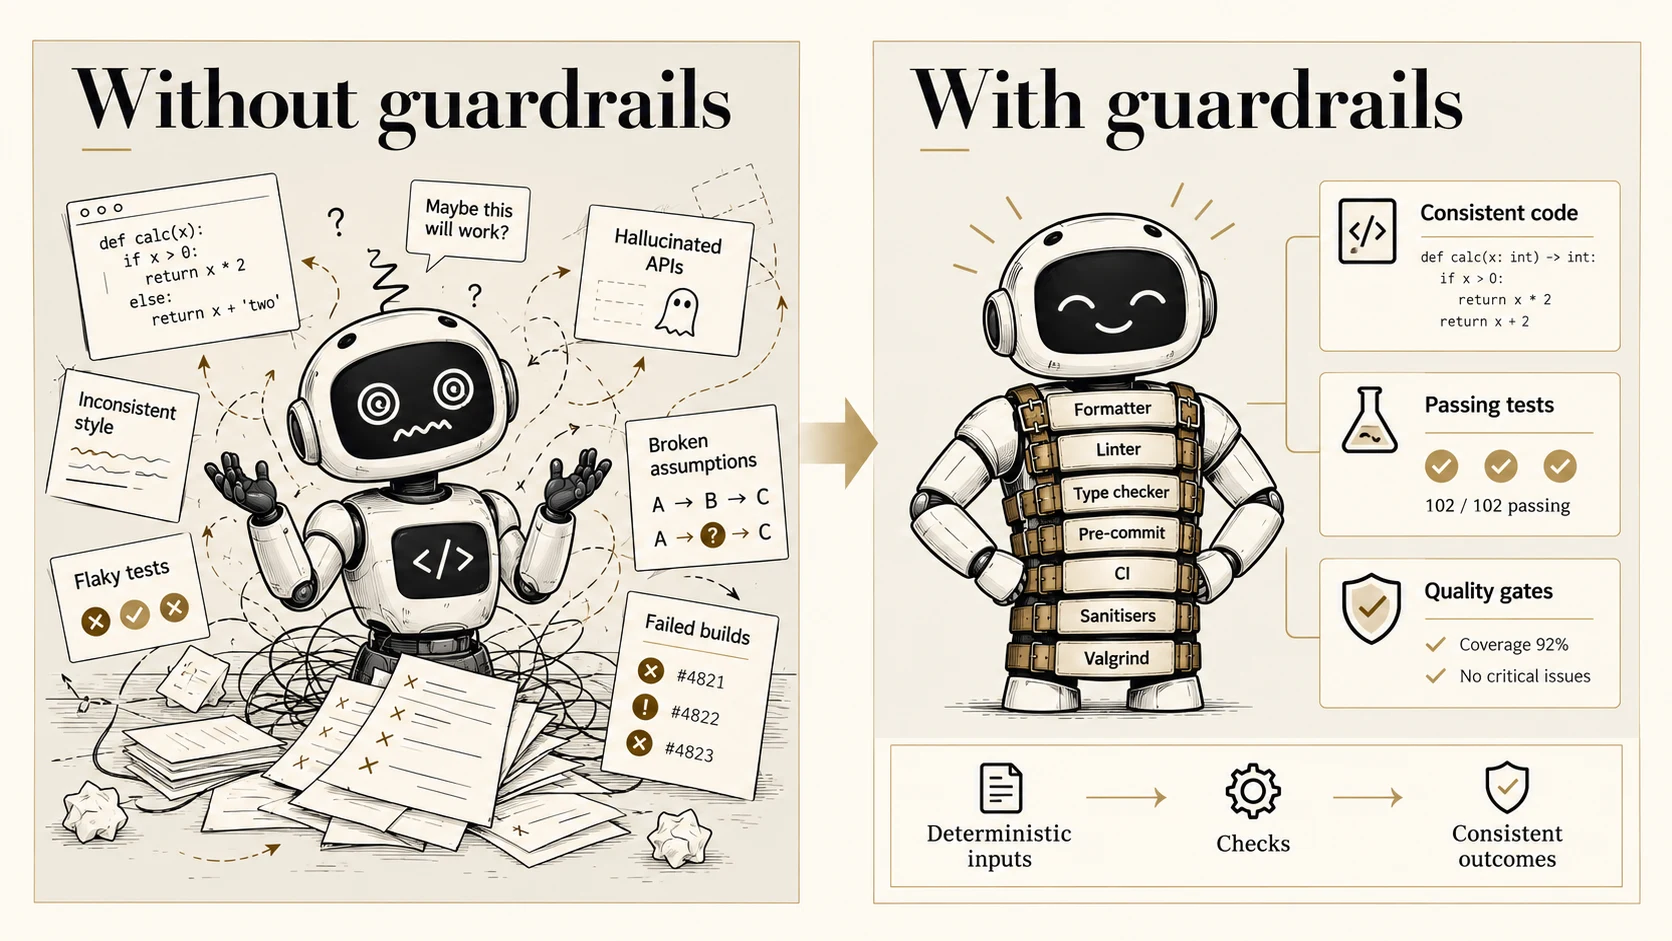
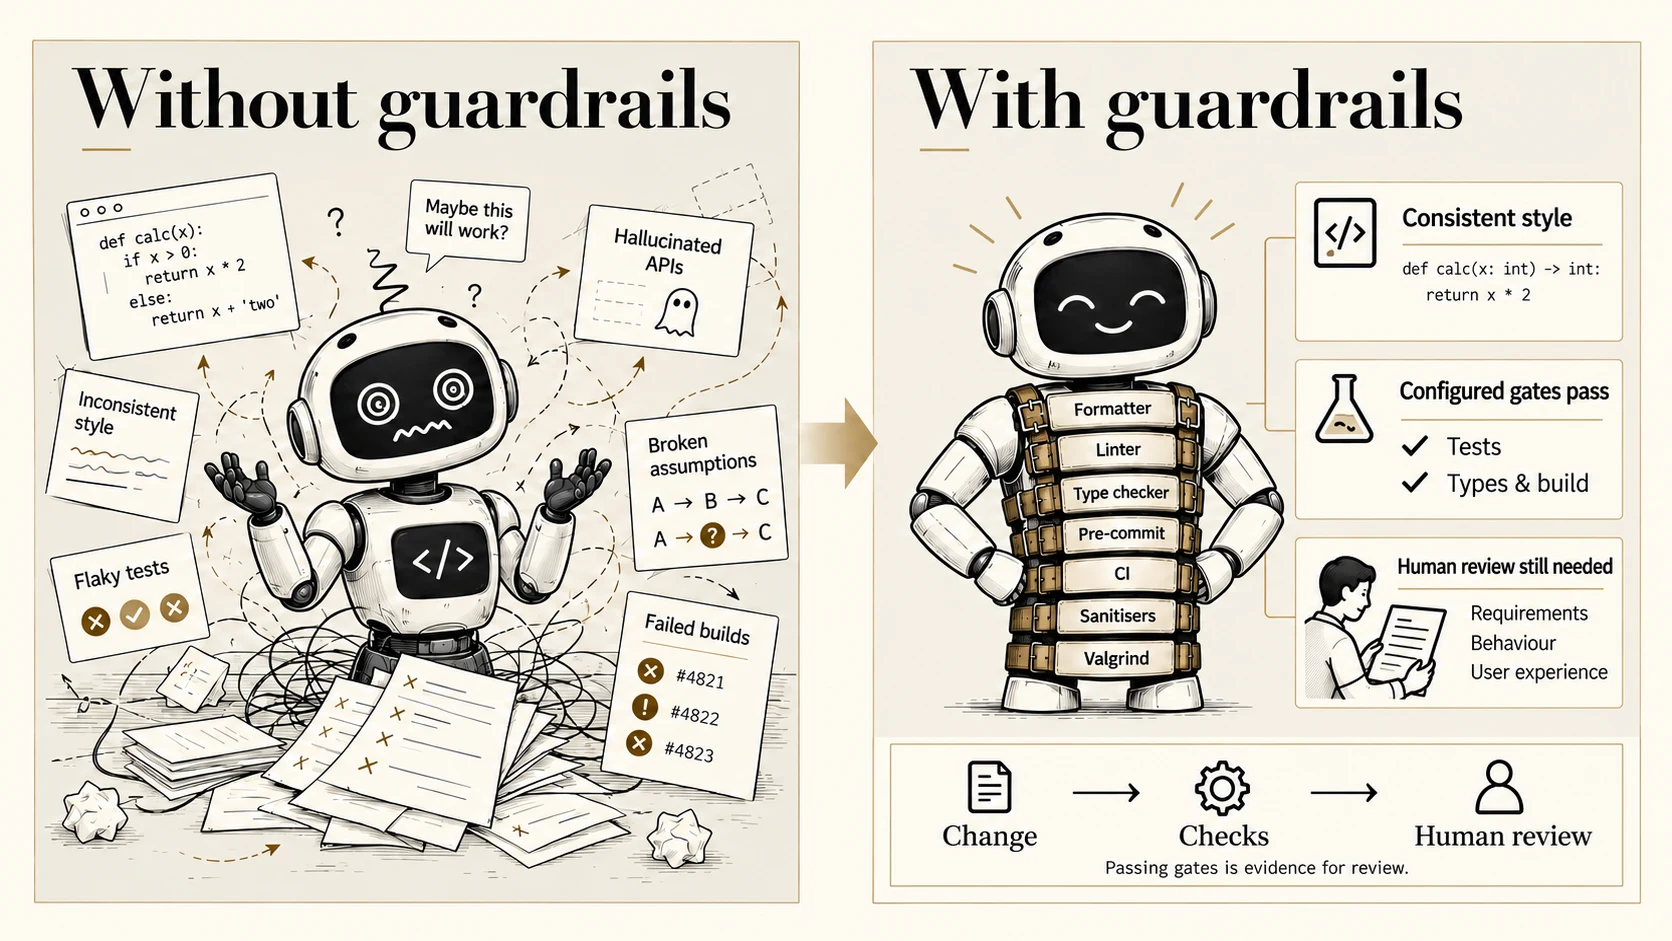
docs(slides): qualify throwaway code, green checks, intent, and session rules (#1)

diff --git a/media/README.md b/media/README.md
@@ -27,40 +27,38 @@ Redesign image 1 with a central well-designed codebase, a human on the left and 
 
 ## deterministic-tooling.webp
 
+Updated with built-in image generation to match the qualified rule. The
+previous version of the same asset is the sole edit target and style
+reference; it remains available in Git history. The complete prompt follows.
+
 ```text
-Two panels: left title "Without guardrails", a confused line-drawn robot amidst tangled papers labelled "Inconsistent style", "Flaky tests", "Broken assumptions", "Hallucinated APIs", "Failed builds". Right title "With guardrails", the same calm robot wearing an elegant safety harness with seven clearly readable straps labelled "Formatter", "Linter", "Type checker", "Pre-commit", "CI", "Sanitisers", "Valgrind". Neat output panels "Consistent code", "Passing tests", "Quality gates". Footer "Deterministic inputs → Checks → Consistent outcomes". Preserve the harness metaphor; don't imply passing checks alone proves production safety.
+Use case: precise-object-edit.
+Asset type: landscape 16:9 presentation illustration.
+Input image 1 is the edit target: Without guardrails / With guardrails robot harness illustration.
+Keep the two-panel layout, existing confused and calm robot characters, harness metaphor and seven harness labels Formatter, Linter, Type checker, Pre-commit, CI, Sanitisers, Valgrind. Keep the left confusion examples Inconsistent style, Flaky tests, Broken assumptions, Hallucinated APIs, Failed builds. Keep professional pen-and-ink artwork, flat ivory #fdfaf3 canvas, stone #e9e5db panels, near-black #141414 ink, gold #dac284 hairline borders ONLY, dark brown #7d6020 for emphasis, elegant Bodoni/Didot headings and Montserrat-like sans-serif labels. Square corners, no glossy 3D, gradients, bright colours, or watermark.
+Primary request: show that deterministic checks establish configured gates passing, with human review still needed to assess the problem and experience. Change ONLY the three output cards and the bottom strip within the RIGHT panel, with minor reflow to keep them legible; preserve the left panel and harness.
+RIGHT top output card: heading exactly "Consistent style". Simple restrained code-format icon and two short symbolic code lines; no invented metrics.
+RIGHT middle output card: heading exactly "Configured gates pass". Two readable checklist labels exactly "Tests" and "Types & build", each with plain near-black ticks. Remove invented 102 / 102 passing, Coverage 92%, and No critical issues.
+RIGHT lower output card: heading exactly "Human review still needed". Small line drawing of human reviewing a page, plus three readable labels exactly "Requirements", "Behaviour", "User experience". Do not put a tick, shield badge, or guaranteed-success symbol on this card.
+BOTTOM right strip: three large readable steps connected left to right with thin black arrows, exactly "Change" → "Checks" → "Human review". Small caption beneath exactly "Passing gates is evidence for review." Remove Deterministic inputs → Checks → Consistent outcomes. Make all new text exact and large enough at 880 px display width. No claims that passing gates proves correctness, safety, or acceptable outcomes. Keep 16:9.
 ```
 
 ## bitter-lesson.webp
 
-The current revision uses only the previous `bitter-lesson.webp` as its edit
-target and style reference, with the following complete prompt.
+Updated with built-in image generation to match the qualified rule. The
+previous version of the same asset is the sole edit target and style
+reference; it remains available in Git history. The complete prompt follows.
 
 ```text
-Use case: infographic-diagram. Edit image 1, the existing "Intent over ceremony" presentation illustration. Keep its refined editorial visual identity: landscape 16:9, flat ivory #fdfaf3 background, warm stone #e9e5db square panels, near-black #141414 text and pen-and-ink robot drawings, restrained gold #dac284 hairlines and borders, dark brown #7d6020 for occasional text emphasis, elegant Bodoni/Didot serif headings, highly readable Montserrat-like sans-serif labels. Redesign the content and layout to incorporate two concrete prompting examples, strong tools, and explicit agent self-verification. Keep the figures expressive but professional; generous space, crisp projected-slide legibility. No overall slide title, watermark, glossy 3D, bright colours, gradients, tiny simulated code, or decorative clutter.
-
-Two side-by-side panels, left roughly 40% of width, right roughly 60%.
-LEFT heading exactly "Ceremony". Under it one large instruction sheet with five short lines, each clearly legible:
-"Open utils.py at line 40."
-"Add a try block."
-"Add exactly three tests."
-"Use single quotes."
-"Do not deviate."
-Below the sheet, a confused robot tangled in a few fine strings attached to the instruction sheet. Bottom caption exactly "Prescribed route".
-
-RIGHT heading exactly "Intent". At top one spacious brief, with this exact text on separate lines:
-"Fix the failing date-parsing test."
-"Preserve the public API."
-"Keep the diff small."
-"Explain any trade-off."
-Below the brief, show one compact tool tray headed "Strong tools" with readable labels "Search", "Docs", "Debugger", "Formatter", "Linter", "Type checker", "Tests", "CI". Use small restrained line icons if helpful; do not turn this into the largest element.
-Below, a calm, engaged robot actively inspecting check results at a laptop. A clearly visible results sheet next to the robot shows three short checked items: "Tests", "Types", "Build". Above or next to this scene, a prominent readable label exactly "Agent verifies its own work". Make the checking activity as important as the tool tray.
-
-At bottom of RIGHT panel only, ONE feedback loop drawn using three connected nodes in a horizontal row, arrow from first to second to third, and a clear return arrow from third back to first. Each node has its label ONCE, with a short supporting line:
-"Explore" / "Inspect and try"
-"Check" / "Run checks; inspect results"
-"Adapt" / "Fix failures; re-check"
-Do NOT add a second "Explore → Check → Adapt" heading anywhere. The words Explore, Check, and Adapt must each occur exactly once as node labels. Avoid a medal or a claim that checks guarantee reliable code. The central message is: give the model a clear outcome and constraints, strong tools, and responsibility to verify and iterate on its own work, rather than prescribing every implementation step. Text accuracy and legibility are essential.
+Use case: precise-object-edit.
+Asset type: landscape 16:9 presentation illustration.
+Input image 1 is the edit target, existing Ceremony versus Intent infographic. Preserve its two-panel composition, friendly robots, ivory #fdfaf3 background, stone #e9e5db panels, near-black #141414 ink, Bodoni/Didot serif headings, Montserrat-like labels, square borders and gold #dac284 hairlines. Dark brown #7d6020 for readable emphasis. Preserve the left Ceremony example and tangled robot, right Intent brief, all eight Strong tools, Agent verifies its own work, Tests/Types/Build checklist, and ONE Explore → Check → Adapt loop with return arrow. Those messages and exact labels must remain.
+Primary request: add an explicit qualification that procedural instructions are useful when sequence itself matters. Reflow the left panel slightly, shrinking the tangled robot only enough to add a neat readable square-corner note BELOW its "Prescribed route" caption. The note must be visually distinct from the arbitrary ceremony sheet, using only a thin border and stone fill. Heading exactly "When sequence matters". Below heading, two clearly legible lines exactly:
+"Prescribe the steps."
+"Migrations · Incident response · Proven diagnostics"
+This note conveys useful procedures, not arbitrary micromanagement. Keep it well separated from the tangled strings; do not link the note to the robot's confusion. Keep the right panel and its feedback loop intact.
+Replace the three GREEN check marks beside Tests, Types, and Build with near-black simple ticks; no green or bright colour anywhere. Preserve eight tools Search, Docs, Debugger, Formatter, Linter, Type checker, Tests, CI. Preserve loop nodes Explore / Inspect and try; Check / Run checks; inspect results; Adapt / Fix failures; re-check. Do not duplicate loop names.
+No overall slide title, new slogans, dates, watermark, tiny text, or new visual metaphors. All added text exact and large enough at 880 px display width. Keep 16:9.
 ```
 
 ## small-scope.webp
@@ -71,39 +69,19 @@ Two panels: left title "One enormous prompt", stressed line-drawn robot with an 
 
 ## session-hygiene.webp
 
-Redesigned with built-in image generation to fold the practical advice into
-the rule illustration. Inputs: the previous image as the edit target and
-`social-media-card.webp` as the style reference. The final prompt below
-supersedes the original two-panel prompt and its reset-caption correction.
+Updated with built-in image generation to match the qualified rule. The
+previous version of the same asset is the sole edit target and style
+reference; it remains available in Git history. The complete prompt follows.
 
 ```text
 Use case: productivity-visual.
-Asset type: landscape 16:9 editorial illustration for a Quarto slide.
-Input images: image 1 is the existing Session hygiene illustration to redesign; image 2 is the deck typography and palette reference.
-Primary request: redesign image 1 so three practical session-hygiene principles are conveyed visually, keeping the same friendly pen-and-ink robot character, refined ivory/stone palette, and professional editorial style. Make the main advice easy to read at presentation size.
-Style: flat ivory #fdfaf3 background, warm stone #e9e5db square panels, near-black #141414 text and fine line art, gold #dac284 for thin borders and hairline dividers only; dark brown #7d6020 for occasional text emphasis. Bodoni/Didot serif headings, Montserrat-like sans-serif labels. Spacious composition, square corners, no gradients, rounded cards, 3D, bright colours, watermarks, or tiny paragraphs.
-
-Composition: three equal vertical panels across the upper 75 percent, separated by thin gold rules. Each has a large two-line heading and a generous meaningful illustration, with sparse labels. A compact handoff strip spans the lower 20 percent.
-
-LEFT PANEL:
-Heading exactly "One task per session".
-Illustrate a focused happy robot at a laptop working with just one task sheet labelled "Task A", inside one clearly labelled frame "Session A". Beside it, a small fading vignette of an old tangled chat and ghost with a reset arrow pointing towards the clean session. The vignette must remain secondary and not overcrowd the main single-task scene. No extra labels in the vignette.
-Caption exactly "Fresh context. Clear focus."
-
-CENTRE PANEL:
-Heading exactly "One Git worktree per parallel task".
-Draw one repository at the top labelled "Repository", branching into two separate side-by-side workspaces with clear boundaries. Workspace A contains a small robot, a terminal, and task card labelled "Task A"; workspace B contains a second small robot, a terminal, and task card labelled "Task B". Under each workspace show "Worktree A" and "Worktree B" respectively. Make the isolation visually unmistakable, no overlapping files or arrows between worktrees.
-Caption exactly "Separate tasks. Separate working directories."
-
-RIGHT PANEL:
-Heading exactly "Durable knowledge lives in the repository".
-Draw a prominent repository folder labelled "Repository" holding a large legible document named exactly "AGENTS.md". The document has three readable short lines "Conventions", "Decisions", "Lessons". A small chat history scroll at the side sends a clear one-way arrow carrying a useful lesson into AGENTS.md; the scroll then fades away. Show a new happy robot session consulting the repository document, not the old chat history.
-Caption exactly "Keep knowledge beyond the chat."
-
-BOTTOM STRIP:
-Title exactly "Reset with a compact handoff".
-Four equal small labelled fields with simple appropriate line icons, exactly "Goal", "Constraints", "Relevant files", "Acceptance checks". Do not include specific implementation examples or invented code.
-No repeated large slide title or slide number. Render all exact text accurately, with generous spacing and readable sizes. Preserve conceptual continuity with the original haunted-to-fresh illustration while making the three practical principles the dominant content.
+Asset type: landscape 16:9 Quarto presentation illustration.
+Input image 1: edit target, existing session-hygiene illustration. Preserve its robot character, elegant Bodoni/Didot headings, Montserrat-like labels, flat ivory #fdfaf3 and stone #e9e5db palette, near-black #141414 ink, gold #dac284 hairline borders ONLY, dark brown #7d6020 text emphasis, square panels, generous spacing, professional pen-and-ink style. No bright colours, gradients, glossy 3D, watermark, or slide title.
+Primary request: reflect COHERENT context rather than obligatory fresh context, while keeping worktree isolation and durable repository knowledge. Keep the three-panel layout and compact bottom handoff strip. Edit LEFT panel and BOTTOM strip; CENTRE and RIGHT content and message stay unchanged.
+LEFT heading exactly "Keep context coherent". In one workspace labelled "Session A", show the same focused robot consulting an existing notes sheet labelled "Useful context" and a main sheet labelled "Task A", with a small adjacent connected sheet labelled "Related follow-up". Convey that a related follow-up uses the same coherent session. A small secondary haunted/tangled-chat vignette has a reset arrow towards the workspace, but label that arrow exactly "Reset when confused". This vignette must not dominate. Caption exactly "One task by default; related follow-ups can stay." No "Fresh context", no absolute "One task per session".
+CENTRE: preserve heading "One Git worktree per parallel task", repository branching to isolated Worktree A / Task A and Worktree B / Task B, each with friendly robot and terminal. Caption "Separate tasks. Separate working directories."
+RIGHT: preserve heading "Durable knowledge lives in the repository", Repository containing AGENTS.md with "Conventions", "Decisions", "Lessons", useful chat knowledge flowing into the document and robot consulting it. Caption "Keep knowledge beyond the chat."
+BOTTOM: title exactly "Reset with a compact handoff". Five readable fields, with understated line icons: "Goal", "Constraints", "Relevant files", "Ruled-out approaches", "Acceptance checks". Fit all five without tiny text. All text exact, legible at 880 px display width. Keep the image at 16:9.
 ```
 
 ## meta-automation.webp

diff --git a/README.md b/README.md
@@ -7,9 +7,9 @@ coding agents to boost productivity without compromising quality.
 
 1. DevEx = AgentEx
 2. Guardrails: fast feedback beats orchestration
-3. The Bitter Lesson: strong models need intent, not ceremony
+3. Specify intent: state outcomes and constraints, not ceremony
 4. Scope control: small, reversible changes
-5. Session hygiene: fresh context beats haunted context
+5. Session hygiene: coherent context beats haunted context
 6. Know thy tools
 7. Meta-automation: automate repeated agent choreography
 8. Be curious. Be humble. Be kind.
